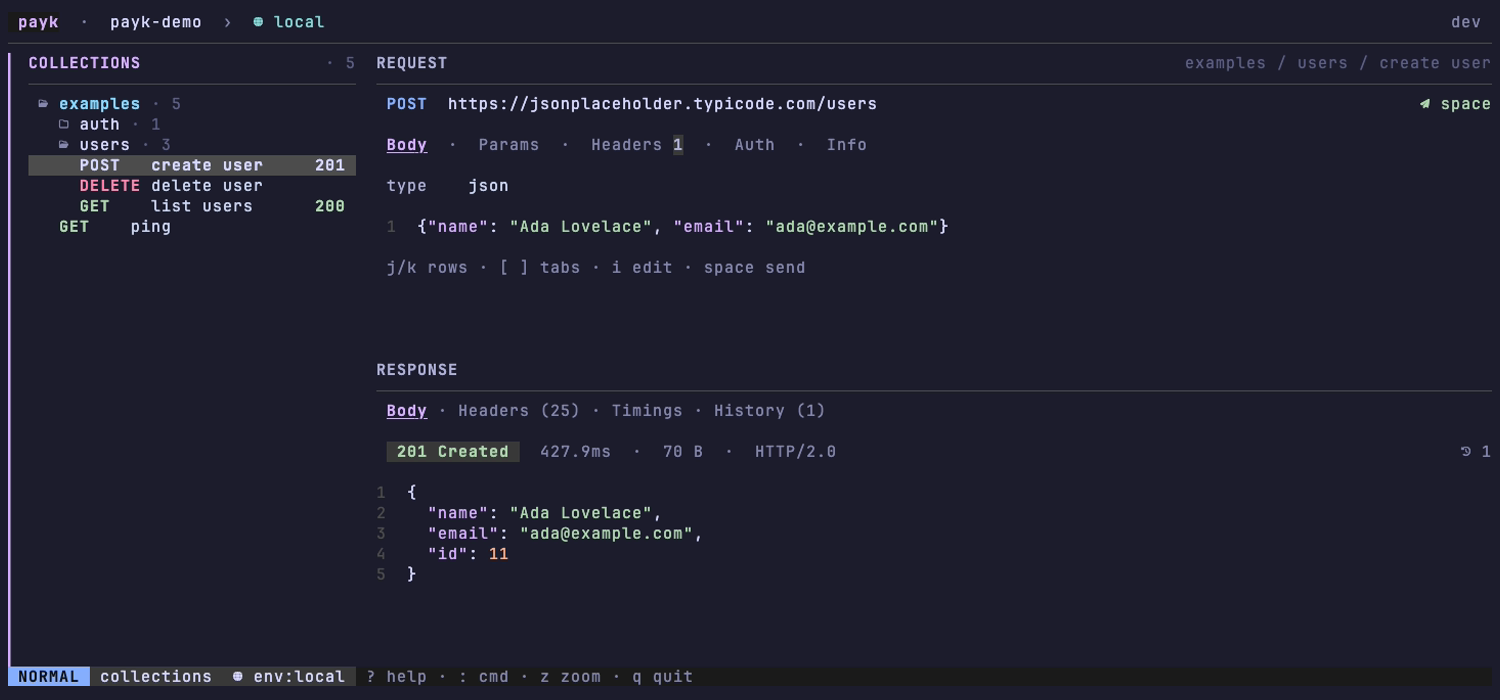
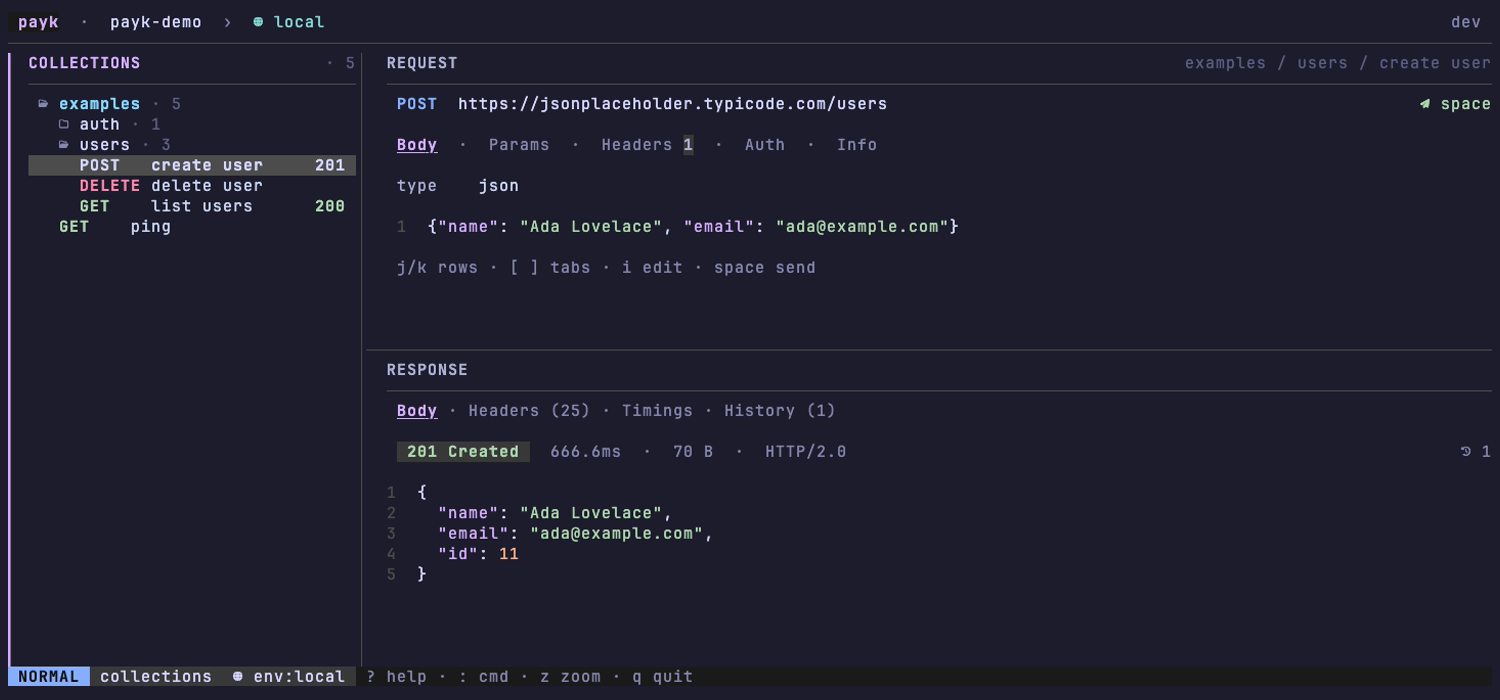
Draw rules between panes
Frameless panes sat edge to edge with nothing marking the boundary. A
rule column now separates side-by-side panes and a horizontal rule
splits the stacked request and response, with the layout reserving the
row and columns they occupy so nothing overflows.

diff --git a/internal/tui/layout.go b/internal/tui/layout.go
@@ -24,6 +24,8 @@ const (
 	statusBarHeight = 1
 	// topBarHeight covers the workspace line plus its rule.
 	topBarHeight = 2
+	// separatorSize is the rule drawn between neighbouring panes.
+	separatorSize = 1
 )
 
 // PanelSize is the outer box size of a panel, borders included.
@@ -79,37 +81,39 @@ func layout(width, height int, opts layoutOptions) PanelSizes {
 	paneHeight := height - statusBarHeight - topBarHeight
 
 	switch {
-	case opts.stacked && width >= doubleBreakpoint && paneHeight >= 2*minPaneHeight:
-		sidebar := 0
+	case opts.stacked && width >= doubleBreakpoint && paneHeight >= 2*minPaneHeight+separatorSize:
+		sidebar, sideRule := 0, 0
 		if opts.sidebarVisible {
 			sidebar = sidebarFor(width, opts)
+			sideRule = separatorSize
 		}
-		main := width - sidebar
-		requestHeight := clamp(paneHeight/2+opts.splitDelta,
-			minPaneHeight, paneHeight-minPaneHeight)
+		main := width - sidebar - sideRule
+
+		// One row goes to the rule between the stacked blocks.
+		stack := paneHeight - separatorSize
+		requestHeight := clamp(stack/2+opts.splitDelta, minPaneHeight, stack-minPaneHeight)
 		return PanelSizes{
 			Mode:        ModeStacked,
 			Collections: PanelSize{sidebar, paneHeight},
 			Request:     PanelSize{main, requestHeight},
-			Response:    PanelSize{main, paneHeight - requestHeight},
+			Response:    PanelSize{main, stack - requestHeight},
 		}
 
 	case width >= tripleBreakpoint:
 		sidebar := sidebarFor(width, opts)
-		request := clamp((width-sidebar)/2+opts.splitDelta,
-			minPaneWidth, width-sidebar-minPaneWidth)
-		response := width - sidebar - request
+		avail := width - sidebar - 2*separatorSize
+		request := clamp(avail/2+opts.splitDelta, minPaneWidth, avail-minPaneWidth)
 		return PanelSizes{
 			Mode:        ModeTriple,
 			Collections: PanelSize{sidebar, paneHeight},
 			Request:     PanelSize{request, paneHeight},
-			Response:    PanelSize{response, paneHeight},
+			Response:    PanelSize{avail - request, paneHeight},
 		}
 
 	case width >= doubleBreakpoint:
 		if opts.sidebarVisible {
 			sidebar := sidebarFor(width, opts)
-			main := width - sidebar
+			main := width - sidebar - separatorSize
 			return PanelSizes{
 				Mode:        ModeDouble,
 				Collections: PanelSize{sidebar, paneHeight},
@@ -117,12 +121,12 @@ func layout(width, height int, opts layoutOptions) PanelSizes {
 				Response:    PanelSize{main, paneHeight},
 			}
 		}
-		request := clamp(width/2+opts.splitDelta, minPaneWidth, width-minPaneWidth)
-		response := width - request
+		avail := width - separatorSize
+		request := clamp(avail/2+opts.splitDelta, minPaneWidth, avail-minPaneWidth)
 		return PanelSizes{
 			Mode:     ModeDouble,
 			Request:  PanelSize{request, paneHeight},
-			Response: PanelSize{response, paneHeight},
+			Response: PanelSize{avail - request, paneHeight},
 		}
 
 	default:

diff --git a/internal/tui/resize_test.go b/internal/tui/resize_test.go
@@ -37,8 +37,8 @@ func TestResizeColumnsLayout(t *testing.T) {
 	if sizes.Collections.Width != base.Collections.Width+4 {
 		t.Errorf("sidebar width = %d, want %d", sizes.Collections.Width, base.Collections.Width+4)
 	}
-	if sizes.Collections.Width+sizes.Request.Width+sizes.Response.Width != 140 {
-		t.Error("pane widths must still sum to the terminal width")
+	if sizes.Collections.Width+sizes.Request.Width+sizes.Response.Width+2*separatorSize != 140 {
+		t.Error("panes plus rules must still cover the terminal width")
 	}
 
 	m = typeString(m, "<<")
@@ -62,8 +62,8 @@ func TestResizeColumnsLayout(t *testing.T) {
 	if sizes.Response.Width < minPaneWidth {
 		t.Errorf("response width = %d, must stay >= %d", sizes.Response.Width, minPaneWidth)
 	}
-	if sizes.Collections.Width+sizes.Request.Width+sizes.Response.Width != 140 {
-		t.Error("pane widths must still sum to the terminal width after clamping")
+	if sizes.Collections.Width+sizes.Request.Width+sizes.Response.Width+2*separatorSize != 140 {
+		t.Error("panes plus rules must still cover the terminal width after clamping")
 	}
 }
 
@@ -82,8 +82,8 @@ func TestResizeStackedLayout(t *testing.T) {
 		t.Errorf("stacked blocks share one width: %d vs %d",
 			base.Request.Width, base.Response.Width)
 	}
-	if base.Collections.Width+base.Request.Width != 140 {
-		t.Error("sidebar and stack must fill the terminal width")
+	if base.Collections.Width+base.Request.Width+separatorSize != 140 {
+		t.Error("sidebar, rule, and stack must fill the terminal width")
 	}
 
 	// Focused on the request block, > grows it and shrinks the response.
@@ -95,6 +95,9 @@ func TestResizeStackedLayout(t *testing.T) {
 	}
 	if sizes.Request.Height+sizes.Response.Height != base.Request.Height+base.Response.Height {
 		t.Error("block heights must still sum to the pane area")
+	}
+	if sizes.Request.Width != sizes.Response.Width {
+		t.Error("stacked blocks keep a shared width while resizing")
 	}
 
 	// Clamping keeps both blocks usable.

diff --git a/internal/tui/app.go b/internal/tui/app.go
@@ -996,6 +996,21 @@ func (m Model) View() tea.View {
 	return v
 }
 
+// vRule is the column drawn between side-by-side panes.
+func (m Model) vRule(height int) string {
+	rows := make([]string, height)
+	line := m.theme.Separator.Render("│")
+	for i := range rows {
+		rows[i] = line
+	}
+	return strings.Join(rows, "\n")
+}
+
+// hRule separates the stacked request and response blocks.
+func (m Model) hRule(width int) string {
+	return m.theme.Separator.Render(strings.Repeat("─", width))
+}
+
 func (m Model) panesView() string {
 	if m.zoomed {
 		switch m.focus {
@@ -1010,17 +1025,22 @@ func (m Model) panesView() string {
 
 	switch m.sizes.Mode {
 	case ModeStacked:
-		stack := lipgloss.JoinVertical(lipgloss.Left, m.request.View(), m.response.View())
+		stack := lipgloss.JoinVertical(lipgloss.Left,
+			m.request.View(),
+			m.hRule(m.sizes.Request.Width),
+			m.response.View())
 		if !m.sidebarVisible {
 			return stack
 		}
-		return lipgloss.JoinHorizontal(lipgloss.Top, m.collections.View(), stack)
+		return lipgloss.JoinHorizontal(lipgloss.Top,
+			m.collections.View(), m.vRule(m.sizes.Collections.Height), stack)
 
 	case ModeTriple:
+		rule := m.vRule(m.sizes.Request.Height)
 		return lipgloss.JoinHorizontal(
 			lipgloss.Top,
-			m.collections.View(),
-			m.request.View(),
+			m.collections.View(), rule,
+			m.request.View(), rule,
 			m.response.View(),
 		)
 
@@ -1030,9 +1050,11 @@ func (m Model) panesView() string {
 			main = m.response.View()
 		}
 		if m.sidebarVisible {
-			return lipgloss.JoinHorizontal(lipgloss.Top, m.collections.View(), main)
+			return lipgloss.JoinHorizontal(lipgloss.Top,
+				m.collections.View(), m.vRule(m.sizes.Collections.Height), main)
 		}
-		return lipgloss.JoinHorizontal(lipgloss.Top, m.request.View(), m.response.View())
+		return lipgloss.JoinHorizontal(lipgloss.Top,
+			m.request.View(), m.vRule(m.sizes.Request.Height), m.response.View())
 
 	default:
 		switch m.focus {

diff --git a/internal/tui/layout_test.go b/internal/tui/layout_test.go
@@ -27,20 +27,22 @@ func TestLayoutBreakpoints(t *testing.T) {
 	}
 }
 
-func TestLayoutTripleWidthsSumToTerminalWidth(t *testing.T) {
+func TestLayoutTripleWidthsFillTerminal(t *testing.T) {
 	for _, width := range []int{120, 137, 200} {
 		sizes := layout(width, 40, layoutOptions{sidebarVisible: true})
-		sum := sizes.Collections.Width + sizes.Request.Width + sizes.Response.Width
+		// Two rule columns sit between the three panes.
+		sum := sizes.Collections.Width + sizes.Request.Width + sizes.Response.Width +
+			2*separatorSize
 		if sum != width {
-			t.Errorf("width %d: pane widths sum to %d", width, sum)
+			t.Errorf("width %d: panes plus rules cover %d", width, sum)
 		}
 	}
 }
 
 func TestLayoutDoubleWidths(t *testing.T) {
 	sizes := layout(100, 30, layoutOptions{sidebarVisible: true})
-	if sizes.Collections.Width+sizes.Request.Width != 100 {
-		t.Errorf("sidebar visible: widths %d + %d don't sum to 100",
+	if sizes.Collections.Width+sizes.Request.Width+separatorSize != 100 {
+		t.Errorf("sidebar visible: widths %d + %d plus rule don't cover 100",
 			sizes.Collections.Width, sizes.Request.Width)
 	}
 
@@ -48,8 +50,8 @@ func TestLayoutDoubleWidths(t *testing.T) {
 	if sizes.Collections.Width != 0 {
 		t.Errorf("sidebar hidden: collections width = %d, want 0", sizes.Collections.Width)
 	}
-	if sizes.Request.Width+sizes.Response.Width != 100 {
-		t.Errorf("sidebar hidden: widths %d + %d don't sum to 100",
+	if sizes.Request.Width+sizes.Response.Width+separatorSize != 100 {
+		t.Errorf("sidebar hidden: widths %d + %d plus rule don't cover 100",
 			sizes.Request.Width, sizes.Response.Width)
 	}
 }
